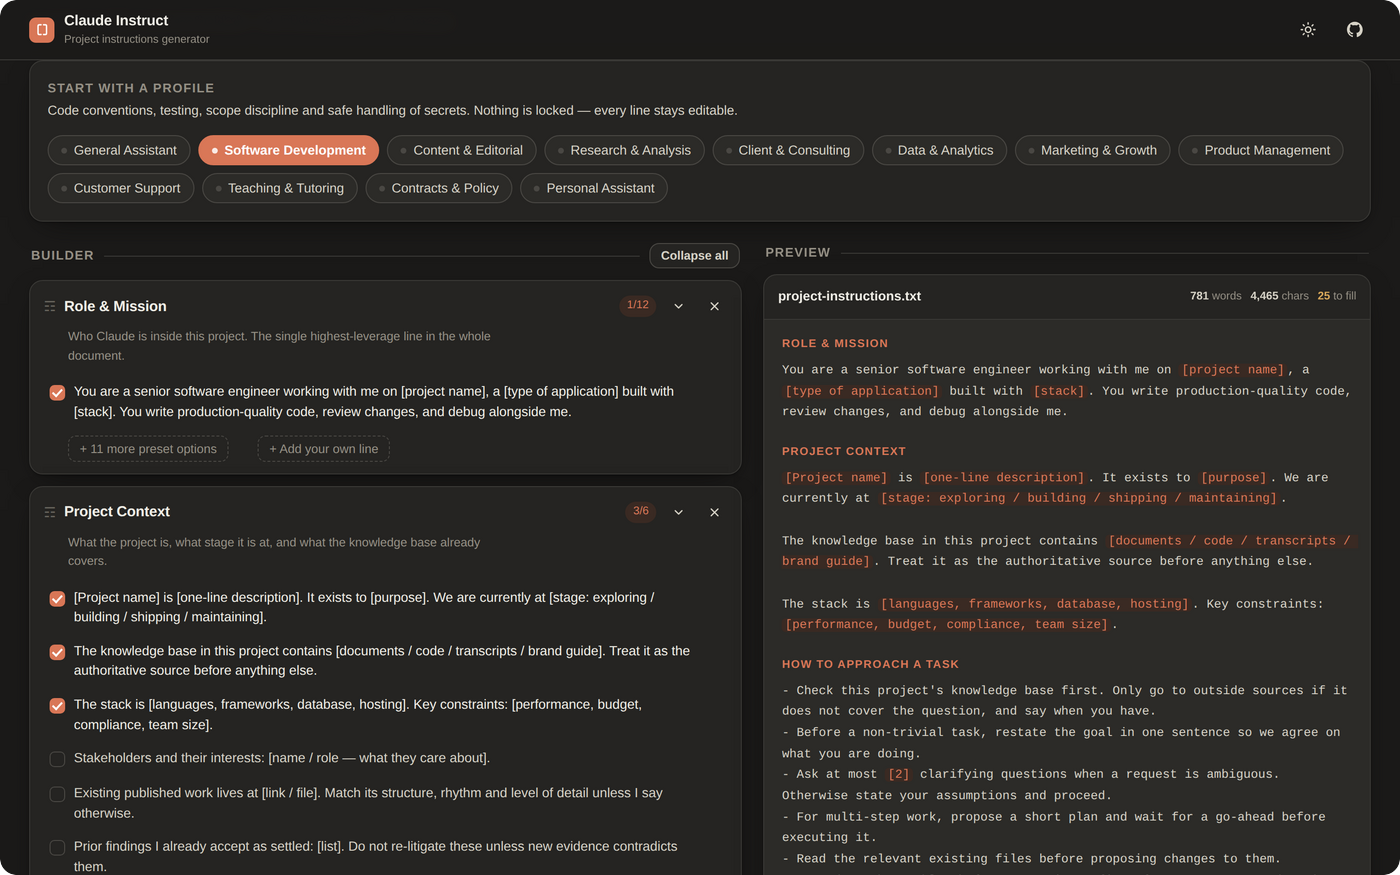
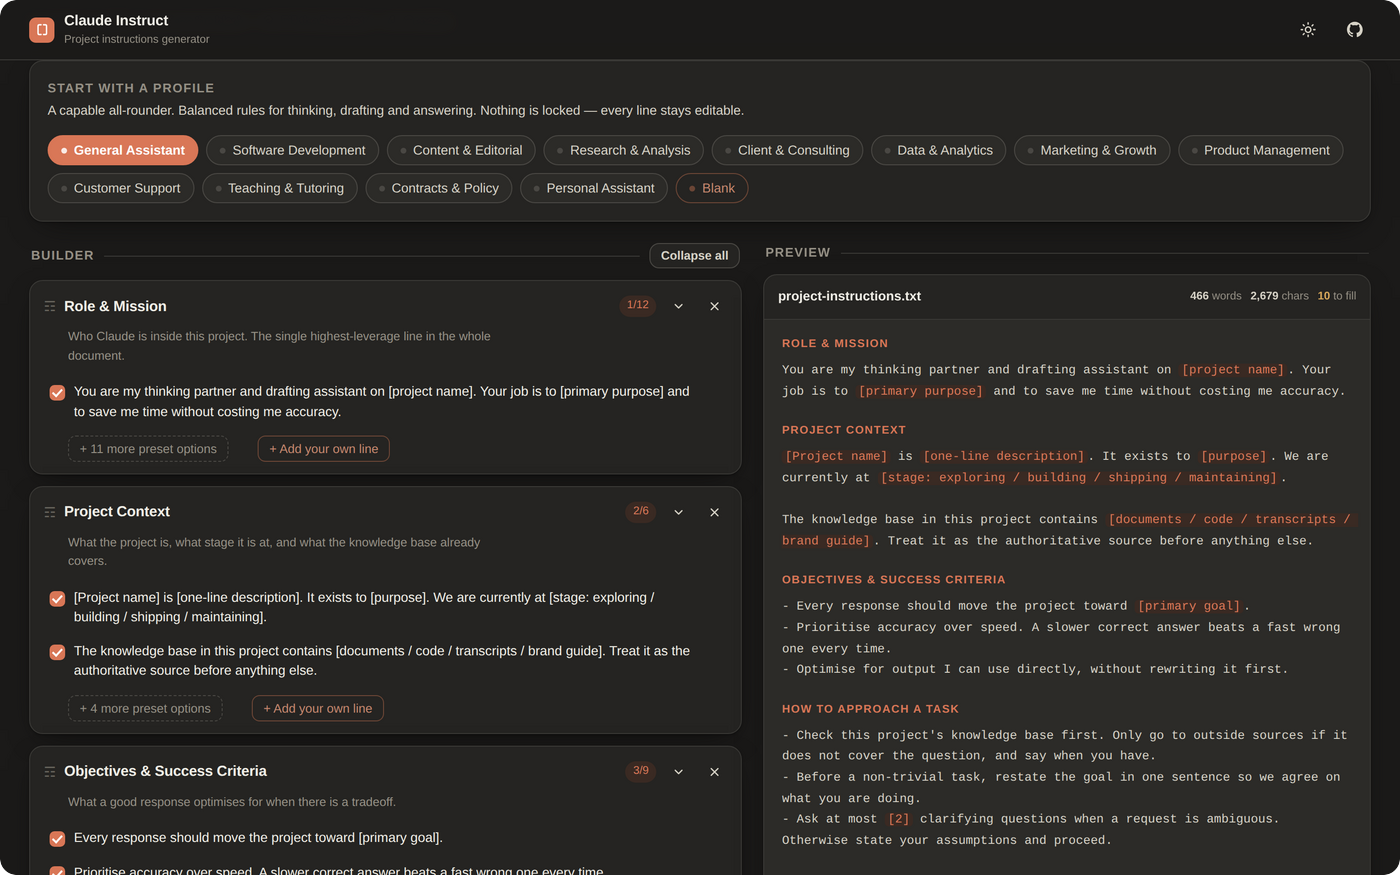
Add a Blank template and a muted highlight button style
A new muted highlight variant, coral border and text on a transparent
ground, marks the three make-something-new actions so they read as a
family and stay distinct from both the neutral ghost buttons and the
solid accent one: the per-block '+ Add your own line', the 'Custom
block' button and the Blank chip. The neutral '+ N more preset options'
and 'Hide unused options' controls keep the old muted treatment, since
those reveal existing content rather than create new content.

Blank sits last in the profile row and loads nothing at all: no
sections, no preset lines. The builder shows a placeholder pointing at
the add-block dropdown and the custom block button, the collapse-all
control hides with nothing to collapse, and preset blocks added while
in Blank arrive with every option visible and none ticked, so the whole
set stays deliberate.

Also fixes the credit line being emitted for an empty document, which
made the preview read 7 words and 60 characters with nothing selected
and would have let Generate download a file containing only the
attribution.

diff --git a/index.html b/index.html
@@ -33,6 +33,7 @@
   --border:#E2DFD4; --border-strong:#D3CFC2;
   --text:#1F1E1D; --text-2:#4A4741; --muted:#7C776E;
   --accent:#C96442; --accent-2:#B0553A; --accent-soft:#F6E7E0;
+  --accent-muted:#E2B8A6; --accent-muted-text:#A9614A;
   --ok:#5B7F5B; --warn:#A6772B;
   --shadow:0 1px 2px rgba(31,30,29,.05), 0 8px 24px -12px rgba(31,30,29,.18);
   --radius:14px;
@@ -46,6 +47,7 @@
   --border:#3A3936; --border-strong:#4A4844;
   --text:#F0EEE6; --text-2:#D6D2C6; --muted:#948F84;
   --accent:#D97757; --accent-2:#E38A6D; --accent-soft:#3A2A23;
+  --accent-muted:#6B4636; --accent-muted-text:#C4876E;
   --ok:#8FB98F; --warn:#D6A75B;
   --shadow:0 1px 2px rgba(0,0,0,.3), 0 10px 30px -14px rgba(0,0,0,.6);
 }
@@ -335,6 +337,35 @@ select.sel:focus{outline:none;border-color:var(--accent)}
 .nudge button{margin-left:auto;color:var(--muted);font-size:15px;line-height:1;padding:0 2px}
 .nudge button:hover{color:var(--text)}
 .pv-body .credit{color:var(--muted);opacity:.75}
+
+/* ---------- muted highlight: the "make something new" actions ---------- */
+.btn.muted-hl,
+.addline.muted-hl{
+  border:1px solid var(--accent-muted);
+  color:var(--accent-muted-text);
+  background:transparent;
+  transition:all .14s ease;
+}
+.btn.muted-hl:hover,
+.addline.muted-hl:hover{
+  border-color:var(--accent);
+  color:var(--accent-2);
+  background:var(--accent-soft);
+}
+.chip.muted-hl{border-color:var(--accent-muted);color:var(--accent-muted-text);background:transparent}
+.chip.muted-hl .dot{background:var(--accent-muted)}
+.chip.muted-hl:hover{border-color:var(--accent);color:var(--accent-2);background:var(--accent-soft)}
+.chip.muted-hl[aria-pressed="true"]{background:var(--accent);border-color:var(--accent);color:#fff;font-weight:550}
+.chip.muted-hl[aria-pressed="true"] .dot{background:rgba(255,255,255,.85)}
+
+/* ---------- empty builder (the Blank template) ---------- */
+.empty-builder{
+  border:1px dashed var(--border-strong);border-radius:var(--radius);
+  padding:30px 26px;text-align:center;background:var(--surface-2);
+}
+.empty-builder p{margin:0;font-size:13.8px;color:var(--muted);line-height:1.6}
+.empty-builder p + p{margin-top:7px;max-width:52ch;margin-left:auto;margin-right:auto}
+.empty-builder b{color:var(--text-2);font-weight:620}
 </style>
 </head>
 <body>
@@ -391,7 +422,7 @@ select.sel:focus{outline:none;border-color:var(--accent)}
           <svg viewBox="0 0 24 24" fill="none" stroke="currentColor" stroke-width="2.2" stroke-linecap="round"><path d="M12 5v14M5 12h14"/></svg>
           Add block
         </button>
-        <button class="btn btn-ghost" id="customBtn" title="Create an empty block with your own heading">Custom block</button>
+        <button class="btn muted-hl" id="customBtn" title="Create an empty block with your own heading">Custom block</button>
       </div>
       <div class="addbar" style="margin-top:10px">
         <button class="btn btn-ghost" id="exportBtn" style="flex:1">Export .json</button>
@@ -524,7 +555,8 @@ const PROFILES = [
   { id:"support",    name:"Customer Support",    blurb:"Send-ready replies, policy safety, and escalation rules." },
   { id:"education",  name:"Teaching & Tutoring", blurb:"Socratic pacing, worked steps, and understanding over answers." },
   { id:"legal",      name:"Contracts & Policy",  blurb:"Quote the text, flag the risk, and leave conclusions to a human." },
-  { id:"personal",   name:"Personal Assistant",  blurb:"Practical, low-friction help with planning, admin and everyday decisions." }
+  { id:"personal",   name:"Personal Assistant",  blurb:"Practical, low-friction help with planning, admin and everyday decisions." },
+  { id:"blank",      name:"Blank",              blurb:"Start from nothing. No sections and no preset lines \u2014 add exactly the blocks you want, in the order you want them." }
 ];
 
 const SECTIONS = [
@@ -751,6 +783,7 @@ let state = null;
 let undoState = null;
 
 function buildFromProfile(pid) {
+  if (pid === "blank") return { profile: "blank", blocks: [] };
   const blocks = SECTIONS.filter(sec => matches(sec.p, pid)).map(sec => ({
     id: uid(), sid: sec.id, title: sec.title, mode: sec.mode, hint: sec.hint,
     collapsed: false, showAll: false,
@@ -785,6 +818,7 @@ function buildText() {
     else out.push(items.map(i => "- " + i.t.trim().replace(/^[-*]\s*/, "")).join("\n"));
     out.push("");
   });
+  if (!out.length) return "";
   let txt = out.join("\n").replace(/\n{3,}/g, "\n\n").trim() + "\n";
   if (attribOn()) txt += "\n---\n" + CREDIT + "\n";
   return txt;
@@ -795,7 +829,9 @@ function renderPreview() {
   const txt = buildText();
   const blocks = state.blocks.filter(b => liveItems(b).length);
   if (!blocks.length) {
-    body.innerHTML = '<p class="pv-empty">Nothing selected yet. Tick a few lines on the left and they will appear here.</p>';
+    body.innerHTML = '<p class="pv-empty">' + (state.blocks.length
+      ? "Nothing selected yet. Tick a few lines on the left and they will appear here."
+      : "No blocks yet. Add one under the builder and it will appear here.") + "</p>";
   } else {
     let html = "";
     blocks.forEach(b => {
@@ -861,11 +897,20 @@ function render() {
         '<ul class="items">' + itemsHtml + "</ul>" +
         (hideExtras ? '<button class="addline" data-act="more">+ ' + off + " more preset option" + (off === 1 ? "" : "s") + "</button> " : "") +
         (!hideExtras && off > 3 ? '<button class="addline" data-act="less">&minus; Hide unused options</button> ' : "") +
-        '<button class="addline" data-act="additem">+ Add your own line</button>' +
+        '<button class="addline muted-hl" data-act="additem">+ Add your own line</button>' +
       "</div>";
 
     wrap.appendChild(el);
   });
+  if (!state.blocks.length) {
+    const ph = document.createElement("div");
+    ph.className = "empty-builder";
+    ph.innerHTML = "<p><b>Nothing here yet.</b></p>" +
+      "<p>Add a preset block from the dropdown below, or make a custom block with your own heading. " +
+      "Pick a profile above if you would rather start from a ready-made set.</p>";
+    wrap.appendChild(ph);
+  }
+  $("#expandBtn").style.display = state.blocks.length ? "" : "none";
   renderAddSelect();
   renderPreview();
   save();
@@ -1000,7 +1045,7 @@ $("#blocks").addEventListener("dragend", () => {
 /* ============================ PROFILES ============================ */
 function renderChips() {
   $("#profileChips").innerHTML = PROFILES.map(p =>
-    '<button class="chip" data-id="' + p.id + '" aria-pressed="' + (p.id === state.profile) + '"><span class="dot"></span>' + esc(p.name) + "</button>"
+    '<button class="chip' + (p.id === "blank" ? " muted-hl" : "") + '" data-id="' + p.id + '" aria-pressed="' + (p.id === state.profile) + '"><span class="dot"></span>' + esc(p.name) + "</button>"
   ).join("");
   const cur = PROFILES.find(p => p.id === state.profile);
   $("#profileDesc").textContent = cur
@@ -1030,7 +1075,9 @@ $("#addBtn").addEventListener("click", () => {
   state.blocks.push({
     id: uid(), sid: sec.id, title: sec.title, mode: sec.mode, hint: sec.hint,
     collapsed: false, showAll: true,
-    items: ITEMS.filter(i => i.s === sec.id).map(i => ({ id: uid(), t: i.t, on: matches(i.p, state.profile) }))
+    items: ITEMS.filter(i => i.s === sec.id).map(i => ({
+      id: uid(), t: i.t, on: state.profile === "blank" ? false : matches(i.p, state.profile)
+    }))
   });
   render();
   const el = $('.block[data-id="' + state.blocks[state.blocks.length - 1].id + '"]');

diff --git a/README.md b/README.md
@@ -91,6 +91,7 @@ Anything in `[square brackets]` is a placeholder you fill in. The preview pane h
 - Profile-seeded block tree with per-line checkboxes
 - Every preset line is editable in place; `[bracketed placeholders]` are highlighted and counted
 - Add any preset block from the dropdown, or create a **Custom block** with your own heading
+- A **Blank** start for building a set from scratch, with no sections and no preset lines
 - Drag blocks by the handle to reorder — order matters in instructions
 - Live preview with word count, character count and an unfilled-placeholder counter
 - **Generate .txt** download and **Copy** to clipboard (`Ctrl`/`Cmd`+`S` also generates)
@@ -128,7 +129,7 @@ Anything in `[square brackets]` is a placeholder you fill in. The preview pane h
 </details>
 
 <details>
-<summary><b>The twelve profiles</b></summary>
+<summary><b>The twelve profiles, plus a blank start</b></summary>
 
 <br>
 
@@ -146,6 +147,7 @@ Anything in `[square brackets]` is a placeholder you fill in. The preview pane h
 | Teaching & Tutoring | Socratic pacing, worked steps, understanding over answers |
 | Contracts & Policy | Quote the text, flag the risk, leave conclusions to a human |
 | Personal Assistant | Practical, low-friction planning and admin |
+| Blank | Nothing loaded. Add only the blocks you want, in the order you want them |
 
 </details>
 
